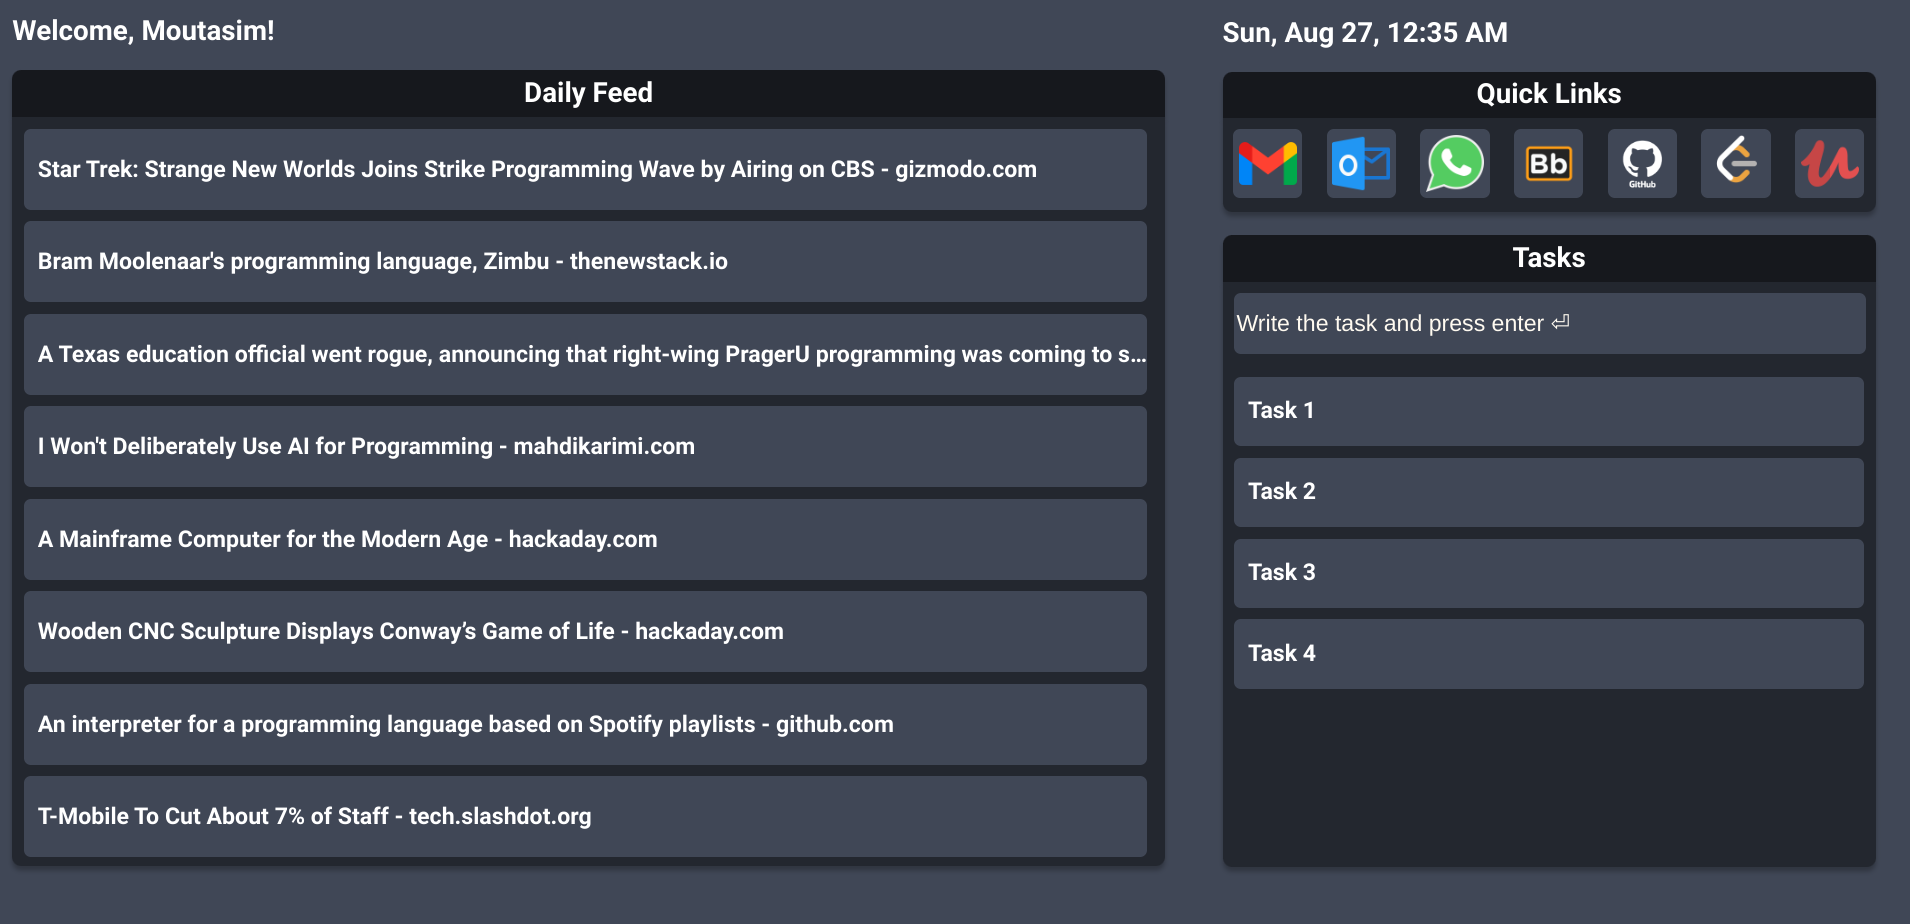
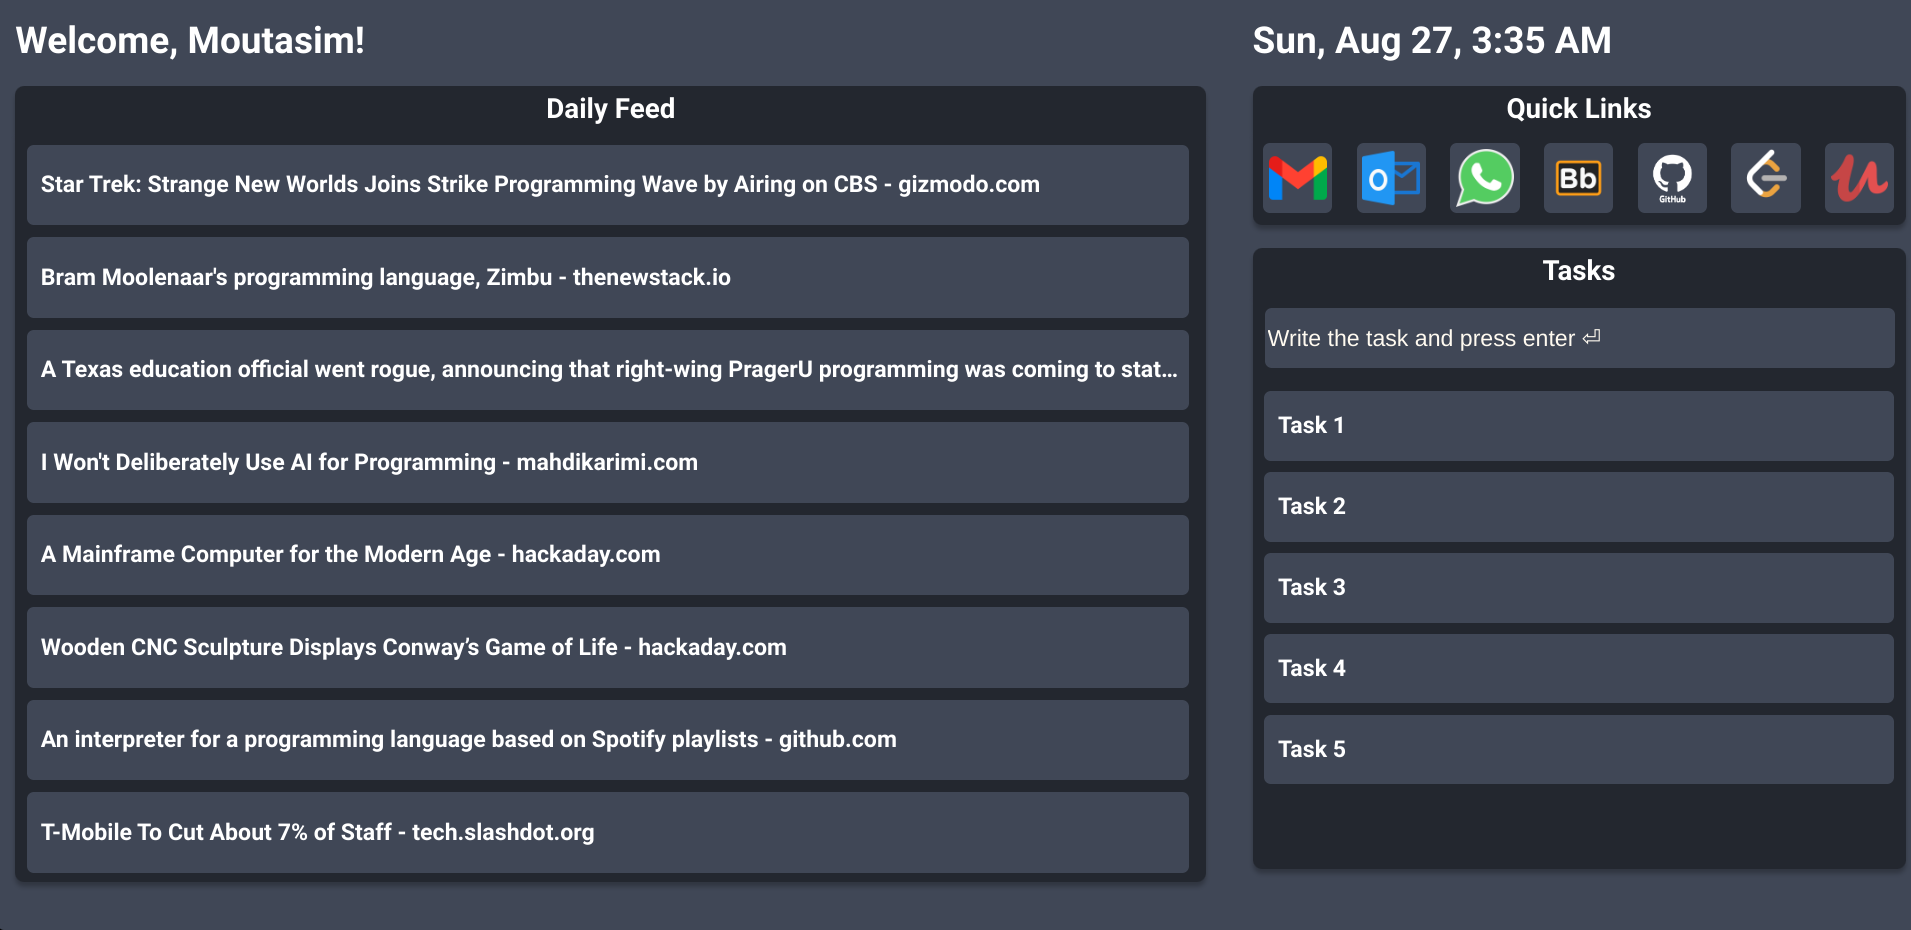
Updated README

diff --git a/src/Components/TasksComponent.jsx b/src/Components/TasksComponent.jsx
@@ -24,8 +24,6 @@ export const TasksComponent = () => {
                     <TaskBlock task="Task 3" />
                     <TaskBlock task="Task 4" />
                     <TaskBlock task="Task 5" />
-                    <TaskBlock task="Task 5" />
-                    <TaskBlock task="Task 5" />
                 </div>
             </div>
         </div>

diff --git a/README.md b/README.md
@@ -10,6 +10,9 @@ After each day of work, I will provide a screenshot of the completed work along 
 
 **Date: 27/08/2023**
 - Fixed Quick links with fixed 7 links as my bookmark, I know I should have done the custom links feature but I decided to make it easier
+- Fixed responsiveness for different screens like mobile devices
+- Changed the color of titles background
+- Refactored the CSS file for reduced cluttering and higher re-usability
 
 **Date: 24/08/2023**
 - Added automatic news to the feeds using NewsAPI
